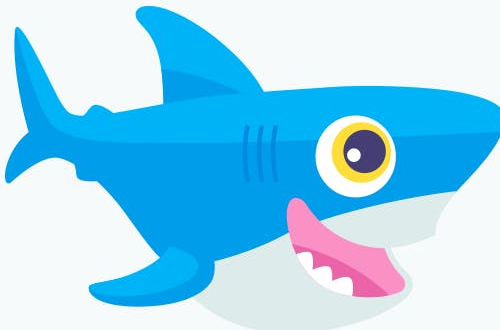
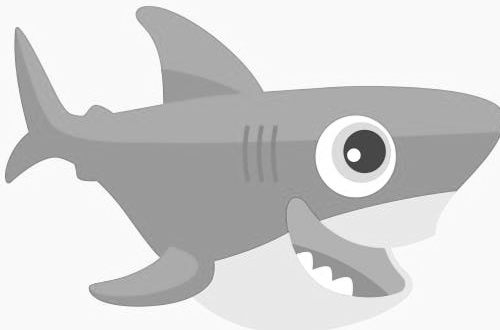
rotate

diff --git a/rotateImage.js b/rotateImage.js
@@ -1,0 +1,13 @@
+const sharp = require("sharp");
+
+async function rotateImage() {
+  try {
+    await sharp("./images/sammy.png")
+      .rotate(33, { background: { r: 0, g: 0, b: 0, alpha: 0 } })
+      .toFile("./output/sammy-rotated.png");
+  } catch (error) {
+    console.log(error);
+  }
+}
+
+rotateImage();

diff --git a/cropImage.js b/cropImage.js
@@ -3,6 +3,7 @@ const sharp = require("sharp");
 async function cropImage() {
   try {
     await sharp("./images/sammy.png")
+      .grayscale()
       .extract({ width: 500, height: 330, left: 120, top: 70  })
       .toFile("./output/sammy-cropped.png");
   } catch (error) {
